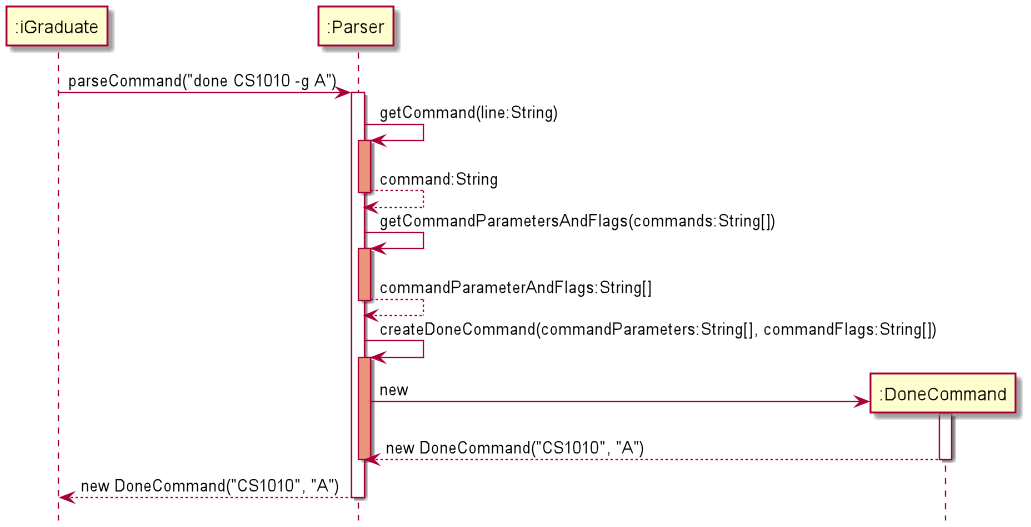
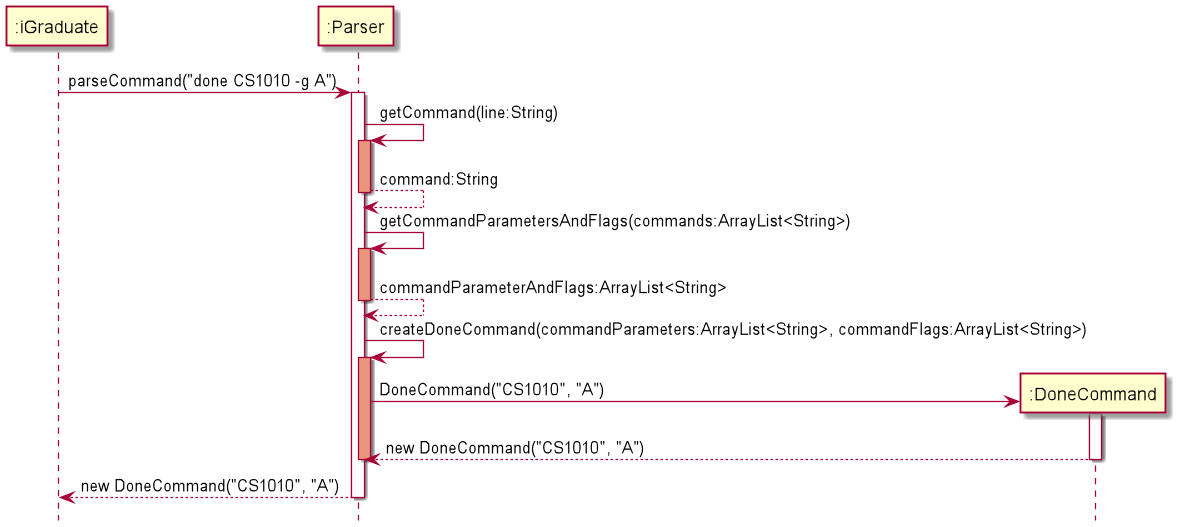
Fix Sequence diagrams

Changed region(s): [[0.0, 0.0, 0.9311, 0.9715], [0.838, 0.6983, 0.9932, 0.8197], [0.9001, 0.7894, 0.9622, 0.8805]]

diff --git a/docs/DeveloperGuide.md b/docs/DeveloperGuide.md
@@ -62,10 +62,10 @@ Project by: `W09-2` Latest update: `11 April 2021`
 ## **Introduction** ##
 
 iGraduate is a Command Line Interface (CLI) application that helps NUS Information Security
-students track and plan their graduation by allowing them to add, delete, update modules to the module list. List  
-shows the modules they have taken and can be taken. There is also a built-in CAP calculator and Progress Command to 
-check their graduation progress. The users are allowed to add Core, General Education (GE), Math and Elective modules
-for tracking. When listing the modules, the module type will be shown accordingly.
+students track and plan their graduation by allowing them to add, delete, update modules to the module list. There is 
+also a built-in CAP calculator and Progress Command to check their graduation progress. The users are allowed to add 
+Core, General Education (GE), Math and Elective modules for tracking. When listing the modules, the module type will be 
+shown accordingly.
 
 <br> 
 
@@ -240,11 +240,11 @@ Given below is the sequence diagram of how the architecture handles the flow of 
 
 ### **UI Component** ###
 
-The UI is a public class that consists of **three components** that is made up `Scanner`, `Constants` and `Print Methods`. The UI component mainly manages the retrieval of user command and display of user feedback, ranging from successful execution, execution results and exceptions. 
+The UI is a public class that consists of **three components**: `Scanner`, `Constants` and `Print Methods`. The UI component mainly manages the retrieval of user command and display of user feedback, ranging from successful execution, execution results and exceptions. 
 
 ***Behaviour***<br>
-- Executes user command using the [logic component](#logic-component).
-- Listens for calls from the [model component](#model-component), which will call the specific print method to print an output.
+
+- Listens for calls from the [logic component](#logic-component) and [model component](#model-component), which will call the specific print method to print an output.
 - Print method references `Constants` and prints them for user to see.
 
 ![archi](./images/UiClassDiagram.png)
@@ -285,7 +285,8 @@ Given below is the `Parser` class diagram showing the important methods that ret
 <sup>***Figure 1.3** UML class diagram for Parser class*</sup>
 
 ***Behaviour***<br>
-`parseCommand()`extracts the command phrase entered by the user by extracting the first word of the user input.
+
+ - `parseCommand()`extracts the command phrase entered by the user by extracting the first word of the user input.
  - Based on the type of command from the user, `parseCommand()` then calls different methods to extract parameters and flags from the user command that are relevant to the command. 
  - The parser then creates the relevant `Command` object and dispatches the control of the program to the created object. 
 
@@ -293,7 +294,7 @@ Given below is the `Parser` class diagram showing the important methods that ret
 > - Interpretation and checking of parameter validity occurs in the parser. 
 > - The Parser also contains checks that ensures the parameters passed are appropriate. 
 
-The different methods extract the various parameters and flags, which would be invoked based on the command word detected in the user input. 
+The methods that extract the various parameters and flags, which would be invoked based on the command word detected in the user input:
 
 |Method|Description|Invoked with|
 |------|-----------|------------|
@@ -309,13 +310,13 @@ The different methods extract the various parameters and flags, which would be i
 
 <br>
 
-The methods that check various parameters
+The method that check various parameters:
 
 |Method|Description|
 |------|-----------|
 |`isModuleCodeValid()`|Checks that the module code is a valid module code according to the standard for NUS modules. The method uses **regex** to check for the valid code. There are 2 overloading methods - one for checking a single instance and another for an array list to check through a list of module codes.|
 
-<sup>***Table 1.5** Methods invoked to check the validity of the `module code` inputted*</sup>
+<sup>***Table 1.5** Method invoked to check the validity of the `module code` inputted*</sup>
 
 ----
 
@@ -371,7 +372,7 @@ Below are the Command class diagrams, split into 3 diagrams for better readabili
 The `model` component consists of two main packages, `module` and `list`, which define and deal with data storing issues based on the information provided by the user input. 
 
 ***Behaviour***<br>
-The data storing issues are split into two main categories - what data should be included in for a module and a container managing the module objects. 
+The data storing issues are split into two main categories - what data should be included in a module and a container managing the module objects. 
 - `module` holds the information which acts as a blueprint for creating and manipulating module objects 
 - `list` consists of a class that defines the way the module objects 
 should be managed and stored.
@@ -393,7 +394,7 @@ A class diagram illustrating the relationship between the interaction of classes
 
 <sup>***Figure 1.7** UML class diagram for the Module package*</sup>
 
-The following child classes are created to handle different types of modules based on the generic module type available in the university:
+The following child classes handle different types of modules based on the generic module type available in the university:
 - `CoreModule`
 - `GeModule`
 - `ElectiveModule`
@@ -448,7 +449,7 @@ in `Storage`.
 
 ----
 
-#### **`ModuleList` Class** ####
+#### **ModuleList Class** ####
 
 The `ModuleList` class acts as an abstraction for the ArrayList that is used to store module objects created from any of the classes under the `module` package.
 
@@ -904,7 +905,7 @@ parameter from user input, and there is 1 compulsory flag:
 The progress command prints a progress bar as well as the user's graduation progress in the form of a percentage. No 
 additional flags are required for this command.
 
-![archi](./images/ProgressCommandSequenceDiagram.png)
+![archi](./images/ProgressSequenceDiagram.png)
 
 <sup>***Figure 1.22** Sequence diagram of `ProgressCommand` in execution.*</sup>
 
